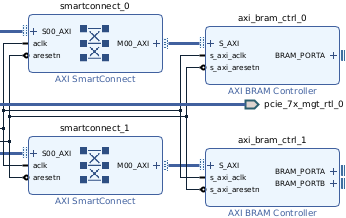
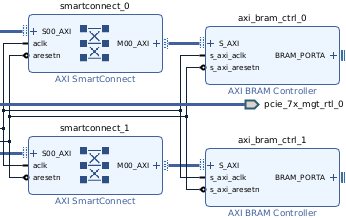
Updated XDMA Comm

Changed region(s): [[0.7803, 0.7431, 1.0, 0.8807]]

diff --git a/XDMA_Communication/README.md b/XDMA_Communication/README.md
@@ -109,6 +109,7 @@ The following is some minimal C code without error checking. Note `count=4` is f
 // Open M_AXI_LITE Device as Read-Write
 int xdma_userfd = open("/dev/xdma0_user", O_RDWR);
 
+#define XDMA_PCIe_to_AXI_Translation_Offset 0x40000000
 uint64_t address = 0x40010000 - XDMA_PCIe_to_AXI_Translation_Offset;
 uint32_t data_word = 0xAA55A55A;
 ssize_t rc;
@@ -146,7 +147,7 @@ sudo ./mm_axilite_test
 
 For the simple included demo, [`xdma_stream.tcl`](xdma_stream.tcl), twice as much data is sent than received. The design can be [recreated for other FPGA targets](#recreating-a-project-from-a-tcl-file). [Configuration bitstreams are available](https://github.com/mwrnd/notes/releases/v0.1.0/) for the [Innova-2](https://github.com/mwrnd/innova2_flex_xcku15p_notes).
 
-Each pair of input (H2C) floating-point values is multiplied to an output (C2H) floating-point value. To account for FIFOs built into the AXI4-Stream blocks, 16 floats (64-bytes) are sent and 8 are received. Data is sent and received to address `0` as it is a stream. The data stream sinks into **S_AXIS_C2H_?** and flows from **M_AXIS_H2C_?** interfaces. Refer to the [xdma_stream](https://github.com/mwrnd/innova2_experiments/tree/main/xdma_stream) and [xdma_stream_512bit](https://github.com/mwrnd/innova2_experiments/tree/main/xdma_stream_512bit) projects for demonstrations.
+Each pair of input (H2C) floating-point values is multiplied to an output (C2H) floating-point value. To account for FIFOs built into the AXI4-Stream blocks, 16 floats (64-bytes) are sent and 8 are received. Data is sent and received to address `0` as it is a stream. The data stream sinks into **S_AXIS_C2H_?** and flows from **M_AXIS_H2C_?** interfaces. Refer to the [xdma_stream](https://github.com/mwrnd/innova2_experiments/tree/main/xdma_stream) and [xdma_stream_512bit](https://github.com/mwrnd/innova2_experiments/tree/main/xdma_stream_512bit) projects for more complex demonstrations.
 
 ![XDMA Stream Demo Block Diagram](img/XDMA_Stream_Demo_Block_Diagram.png)
 
@@ -235,7 +236,7 @@ Add IP Blocks:
 
 #### Add XDMA Block
 
-Add XDMA Block:
+Add an XDMA Block:
 
 ![Add XDMA Block](img/Add_DMA_Bridge_Subsystem_for_PCI_Express_IP.png)
 
@@ -243,7 +244,7 @@ Run Block Automation:
 
 ![Run Block Automation](img/Run_Block_Automation.png)
 
-Choose PCIe Lane Width and Link Speed, select **AXI Memory Mapped** for the *DMA interface* and add an AXI Lite interface.
+Choose PCIe Lane Width and Link Speed compatible with your target board. Select **AXI Memory Mapped** for the *DMA interface* and add an AXI Lite interface.
 
 ![XDMA AXI Memory Mapped with AXI Lite](img/XDMA_Block_Automation_MM_and_AXILite.png)
 
@@ -255,17 +256,17 @@ Double-click the `xdma_0` Block to open it up for customization.
 
 ![XDMA Block Properties](img/XDMA_Block_Properties.png)
 
-The *PCIe Block Location* chosen should be the closest PCIE Block adjacent to the transceiver Quad that the PCIe lanes are connected to on your FPGA board. Refer to the [Device Packaging and Pinouts Product Specification User Guide](https://docs.xilinx.com/r/en-US/ug575-ultrascale-pkg-pinout/XCKU15P-and-XQKU15P-Bank-Diagrams). The PCIe Lane Width and Link Speed throughput needs to match the AXI Data Width and Clock Frequency throughput. These four settings are interrelated. Note the Data Width is 64-Bit with these selections.
+The *PCIe Block Location* chosen should be the closest PCIE Block adjacent to the transceiver Quad that the PCIe lanes are connected to on your FPGA board. Refer to the [Device Packaging and Pinouts Product Specification User Guide](https://docs.xilinx.com/r/en-US/ug575-ultrascale-pkg-pinout/XCKU15P-and-XQKU15P-Bank-Diagrams).
 
 ![FPGA Banks](img/FPGA_Banks.png)
-
-A *PCIe to AXI Translation* offset is useful to make sure the *Size* of your AXI Lite BAR overlaps the address space of all peripheral blocks. This is useful when a soft-core processor has all of its peripherals in some specific address range. The offset can be `0` or [larger than *Size*](https://support.xilinx.com/s/question/0D52E00006hpbPJSAY/pcie-to-axi-translation-setting-for-dma-bypass-interface-not-being-applied?language=en_US).
-
-![AXI Lite BAR Setup](img/XDMA_Block_Properties_AXILite_BAR_Setup.png)
 
 Set the PCIe ID to **Memory Controller** as the *Base Class* and **Other memory controller** as the *Sub Class*.
 
 ![PCIe ID Settings](img/XDMA_Settings_PCIe_ID.png)
+
+A *PCIe to AXI Translation* offset is useful to make sure the *Size* of your AXI Lite BAR overlaps the address space of all peripheral blocks. This is useful when a soft-core processor has all of its peripherals in some specific address range. The offset can be `0` or [larger than *Size*](https://support.xilinx.com/s/question/0D52E00006hpbPJSAY/pcie-to-axi-translation-setting-for-dma-bypass-interface-not-being-applied?language=en_US): `1MB==1048576==0x100000 < 0x40000000`.
+
+![AXI Lite BAR Setup](img/XDMA_Block_Properties_AXILite_BAR_Setup.png)
 
 The XDMA Driver will create a `/dev/xdma0_?` file for each channel. Multiple channels allow multiple programs or threads to access the AXI blocks in your design.
 
@@ -293,7 +294,7 @@ Add AXI BRAM Controller:
 
 ![Add AXI BRAM Controller](img/Add_AXI_BRAM_Controller_IP.png)
 
-Add blocks for each SmartConnect interface:
+Add blocks for each SmartConnect interface and connect their `S_AXIS` ports to the corresponding `M_AXIS` port of the SmartConnect blocks.
 
 ![BRAM Controller Block for each SmartConnectInterface](img/BRAM_Controller_Blocks_for_each_SmartConnect_Interface.png)
 
@@ -301,7 +302,7 @@ Run Block Automation and choose to generate a new Block Memory for each (*New Bl
 
 ![AXI BRAM Controller New Blk_Mem_Gen](img/AXI_BRAM_Controller_Block_Automation.png)
 
-A [Memory Generator Block](https://docs.xilinx.com/v/u/en-US/pg058-blk-mem-gen) should appear for each BRAM Controller.
+A [Block Memory Generator](https://docs.xilinx.com/v/u/en-US/pg058-blk-mem-gen) should appear for each BRAM Controller.
 
 ![Block Memory Generator for each BRAM Controller](img/Block_Memory_Generator_Blocks_for_each_BRAM_Controller.png)
 
@@ -309,7 +310,7 @@ Double-click the `axi_bram_ctrl_0` block connected to the PCIe **M_AXI** interfa
 
 ![M_AXI BRAM Controller Data Width is 64-Bit](img/AXI_BRAM_Controller_Block_Properties_AXI_64Bit.png)
 
-Double-click the `axi_bram_ctrl_1` block connected to the PCIe **M_AXI_LITE** interface and choose *AXI4LITE* as the AXI Protocol which forces the Data Width to 32-Bit.
+Double-click the `axi_bram_ctrl_1` block connected to the PCIe **M_AXI_LITE** interface and choose *AXI4LITE* as the AXI Protocol which forces the Data Width to 32-Bit. The Number of BRAM interfaces is set to 1 to simplify the design.
 
 ![M_AXI_LITE BRAM Controller Protocol is AXI4LITE](img/AXI_BRAM_Controller_Block_Properties_AXILite.png)
 
@@ -327,7 +328,7 @@ Open the *Address Editor* tab, right-click and select *Assign All*:
 
 ![Address Editor Assign All](img/Address_Editor_Assign_All.png)
 
-You can edit the AXI Block addresses as required. Even though each Network can have overlapping addresses, avoid this as it can lead to confusion.
+You can edit the AXI Block addresses as required. The *Range* is the size that Vivado will implement for each block. If the value is too large for your target FPGA then Implementation will fail. Even though each Network can have overlapping addresses, avoid this as it can lead to confusion.
 
 ![AXI Addresses](img/Address_Editor.png)
 
@@ -350,7 +351,11 @@ Name the Constraints File:
 
 ![Name the Constraints File](img/Create_Constraints_File.png)
 
-Double-click the `constraints.xdc` file to edit it. You will need to edit the PCIe TX/RX, Reset, and Clock signals to your board's pins. The TX/RX and Clock signals are differential but only the positive terminals need to be set as that restricts the other terminal. `CONFIG_MODE` and other `BITSTREAM` settings may also need to be set for your target board.
+Double-click the `constraints.xdc` file to edit it.
+
+![Constraints File](img/Constraints_File.png)
+
+You will need to edit the PCIe TX/RX, Reset, and Clock signals to your board's pins. The TX/RX and Clock signals are differential but only the positive terminals need to be set as that restricts the other terminal. `CONFIG_MODE` and other `BITSTREAM` settings may also need to be set for your target board.
 ```
 set_property PACKAGE_PIN AH36 [get_ports {pcie_7x_mgt_rtl_0_rxp[0]}]
 
@@ -426,7 +431,7 @@ Add IP Blocks:
 
 #### Add XDMA Stream Block
 
-Add XDMA Block:
+Add an XDMA Block:
 
 ![Add XDMA Block](img/Add_DMA_Bridge_Subsystem_for_PCI_Express_IP.png)
 
@@ -446,19 +451,19 @@ Double-click the `xdma_0` Block to open it up for customization.
 
 ![XDMA Block Properties](img/XDMA_Block_Properties_Stream.png)
 
-The *PCIe Block Location* chosen should be the closest PCIE Block adjacent to the transceiver Quad that the PCIe lanes are connected to on your FPGA board. Refer to the [Device Packaging and Pinouts Product Specification User Guide](https://docs.xilinx.com/r/en-US/ug575-ultrascale-pkg-pinout/XCKU15P-and-XQKU15P-Bank-Diagrams). The PCIe Lane Width and Link Speed throughput needs to match the AXI Data Width and Clock Frequency throughput. These four settings are interrelated. Note the Data Width is 64-Bit with these selections.
+The *PCIe Block Location* chosen should be the closest PCIE Block adjacent to the transceiver Quad that the PCIe lanes are connected to on your FPGA board. Refer to the [Device Packaging and Pinouts Product Specification User Guide](https://docs.xilinx.com/r/en-US/ug575-ultrascale-pkg-pinout/XCKU15P-and-XQKU15P-Bank-Diagrams).
 
 ![FPGA Banks](img/FPGA_Banks.png)
-
-A *PCIe to AXI Translation* offset is useful to make sure the *Size* of your AXI Lite BAR overlaps the address space of all peripheral blocks. This is useful when a soft-core processor has all of its peripherals in some specific address range. The offset can be `0` or [larger than *Size*](https://support.xilinx.com/s/question/0D52E00006hpbPJSAY/pcie-to-axi-translation-setting-for-dma-bypass-interface-not-being-applied?language=en_US).
-
-![AXI Lite BAR Setup](img/XDMA_Block_Properties_AXILite_BAR_Setup.png)
 
 Set the PCIe ID to **Memory Controller** as the *Base Class* and **Other memory controller** as the *Sub Class*.
 
 ![PCIe ID Settings](img/XDMA_Settings_PCIe_ID.png)
 
-The XDMA Driver will create a `/dev/xdma0_?` file for each channel. Each channel has its own circuit.
+A *PCIe to AXI Translation* offset is useful to make sure the *Size* of your AXI Lite BAR overlaps the address space of all peripheral blocks. This is useful when a soft-core processor has all of its peripherals in some specific address range. The offset can be `0` or [larger than *Size*](https://support.xilinx.com/s/question/0D52E00006hpbPJSAY/pcie-to-axi-translation-setting-for-dma-bypass-interface-not-being-applied?language=en_US): `1MB==1048576==0x100000 < 0x40000000`.
+
+![AXI Lite BAR Setup](img/XDMA_Block_Properties_AXILite_BAR_Setup.png)
+
+Each channel has an AXI-Stream circuit: `S_AXIS_C2H_?` or `M_AXIS_H2C_?`. The XDMA Driver will create a `/dev/xdma0_c2h_?` or `/dev/xdma0_h2c_?` file for each channel. 
 
 ![Stream DMA Channels](img/XDMA_Block_Properties_DMA_Channels.png)
 
@@ -480,13 +485,13 @@ One of the output streams is set up to be the lower 32-bits of the input and the
 
 #### Floating-Point Block
 
-Add a [Floating-Point](https://docs.xilinx.com/v/u/en-US/pg060-floating-point) block in the stream as an example of something useful. Connect its `S_AXIS` inputs to the `M??_AXIS` outputs of the *AXI4-Stream Broadcaster*. Each pair of 32-bit=4-byte single precision floating-point values in the 64-Bit=8-Byte Host-to-Card (H2C) stream gets multiplied to produce a floating-point value in the 64-Bit=8-Byte Card-to-Host (C2H) stream. Half as many reads from C2H are necessary as writes to H2C.
+Add a [Floating-Point](https://docs.xilinx.com/v/u/en-US/pg060-floating-point) block to the stream as an example of something useful. Connect its `S_AXIS` inputs to the `M??_AXIS` outputs of the *AXI4-Stream Broadcaster*. Each pair of 32-bit=4-byte single precision floating-point values in the 64-Bit=8-Byte Host-to-Card (H2C) stream gets multiplied to produce a floating-point value in the 64-Bit=8-Byte Card-to-Host (C2H) stream. Half as many reads from C2H are necessary as writes to H2C.
 
 The floating-point blocks are set up to multiply their inputs.
 
 ![Floating-Point Block Settings](img/Floating-Point_Settings.png)
 
-Full DSP usage is allowed to maximize throughput.
+Full DSP usage is set to maximize throughput.
 
 ![Floating-Point Block Optimization Settings](img/Floating-Point_Optimizations.png)
 
@@ -508,7 +513,7 @@ Set it up to convert its 32-Bit=4-Byte input into a 64-Bit=8-Byte output compati
 
 #### M_AXI_LITE Addresses
 
-Set an *M_AXI_LITE* Address for the BRAM Block.
+If you decide to [add a BRAM Block](#add-bram-controller-blocks) to the *M_AXI_LITE* port, set up its addresses.
 
 ![Set M_AXI_LITE Addresses](img/xdma_stream_AXILite_Addresses.png)
 
@@ -562,7 +567,7 @@ Select all the IP check boxes and run *Upgrade Selected*.
 
 ![Upgrade IP](img/Show_IP_Status_then_Upgrade_Selected.png)
 
-The IP should upgrade successfully if it is not too different an FPGA. Note that constraints will also need to be updated if the package has changed.
+The IP should upgrade successfully if it is not too different an FPGA.
 
 ![IP Successfully Upgraded](img/IP_Successfully_Upgraded.png)
 
@@ -583,14 +588,14 @@ Generate the Bitstream:
 
 ## Install dma_ip_drivers
 
-Download and extract the March 18, 2022, commit 7859957 version of Xilinx's [DMA IP Drivers](https://github.com/Xilinx/dma_ip_drivers/tree/785995783c78b2cbec6458141c4395e204c5bd9b).
+Download and extract the November 10, 2023, commit a93d4a4 version of Xilinx's [DMA IP Drivers](https://github.com/Xilinx/dma_ip_drivers/tree/a93d4a4870e41d152b33aebb3f869eefb11aa691).
 ```Shell
 cd ~
-wget https://codeload.github.com/Xilinx/dma_ip_drivers/zip/785995783c78b2cbec6458141c4395e204c5bd9b -O dma_ip_drivers-7859957.zip
-unzip dma_ip_drivers-7859957.zip
-mv dma_ip_drivers-785995783c78b2cbec6458141c4395e204c5bd9b dma_ip_drivers
+wget https://codeload.github.com/Xilinx/dma_ip_drivers/zip/a93d4a4870e41d152b33aebb3f869eefb11aa691 -O dma_ip_drivers-a93d4a4.zip
+unzip dma_ip_drivers-a93d4a4.zip
+mv dma_ip_drivers-a93d4a4870e41d152b33aebb3f869eefb11aa691 dma_ip_drivers
 
-cd ~/dma_ip_drivers/XDMA/linux-kernel/xdma/
+cd dma_ip_drivers/XDMA/linux-kernel/xdma/
 make DEBUG=1
 sudo make install
 
